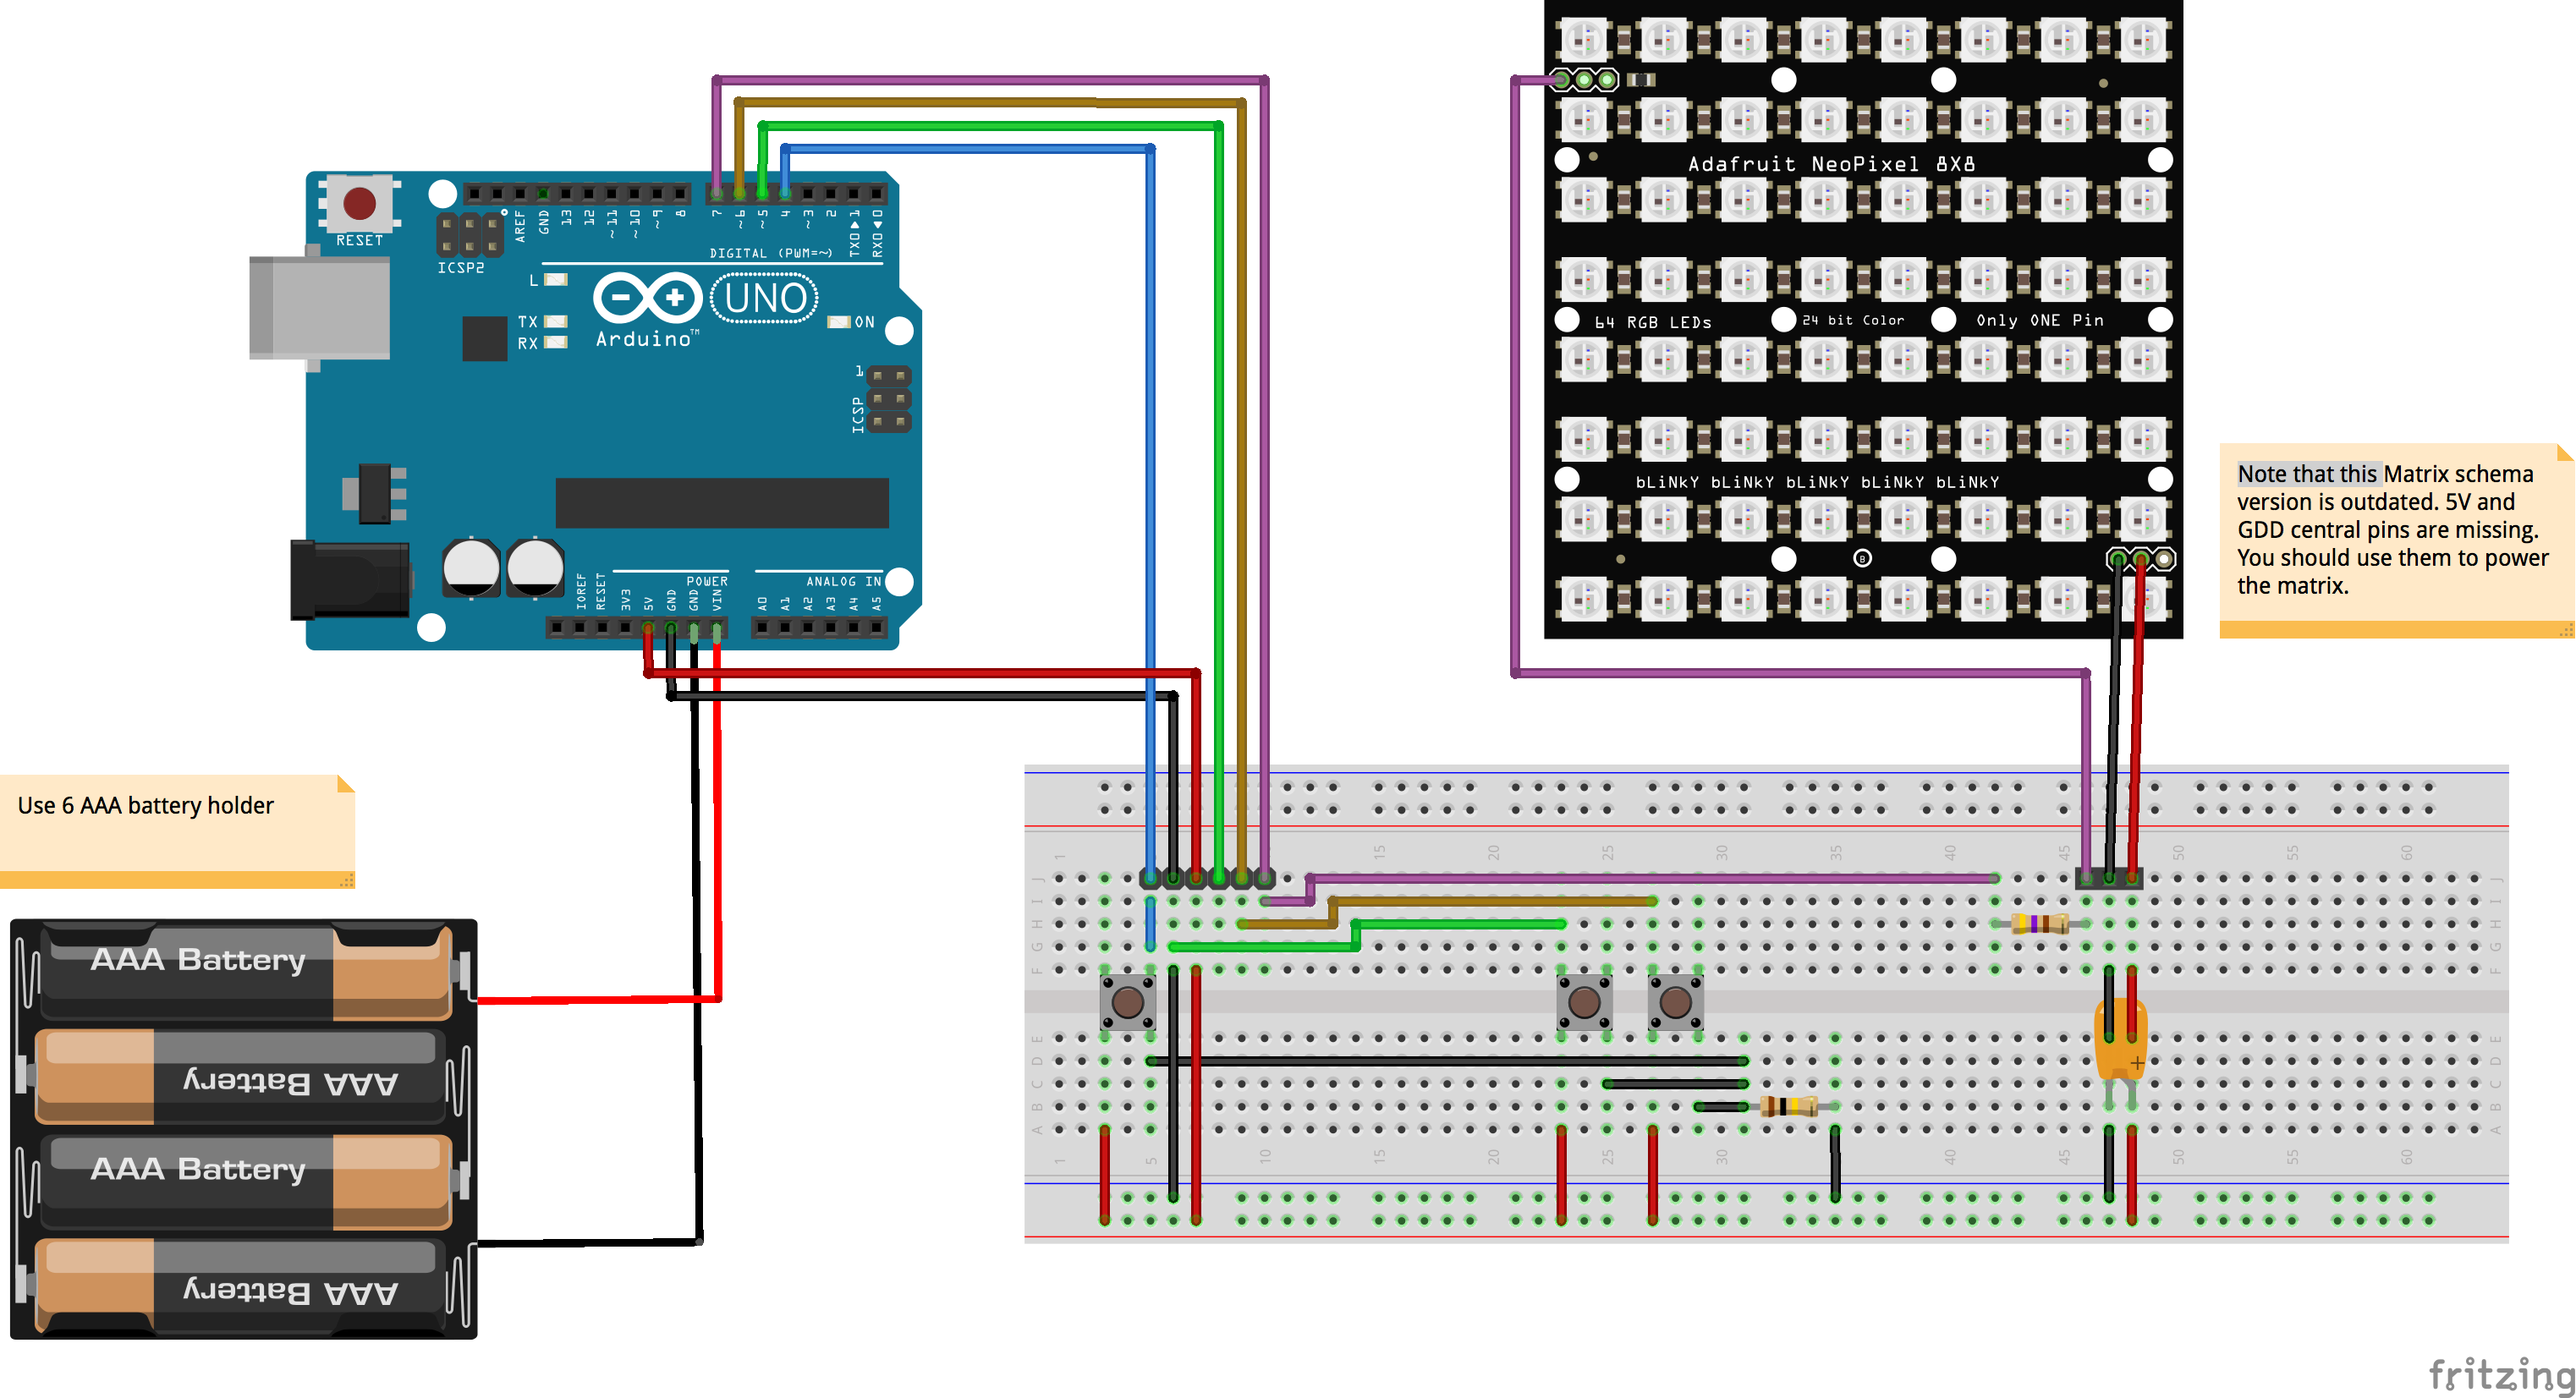
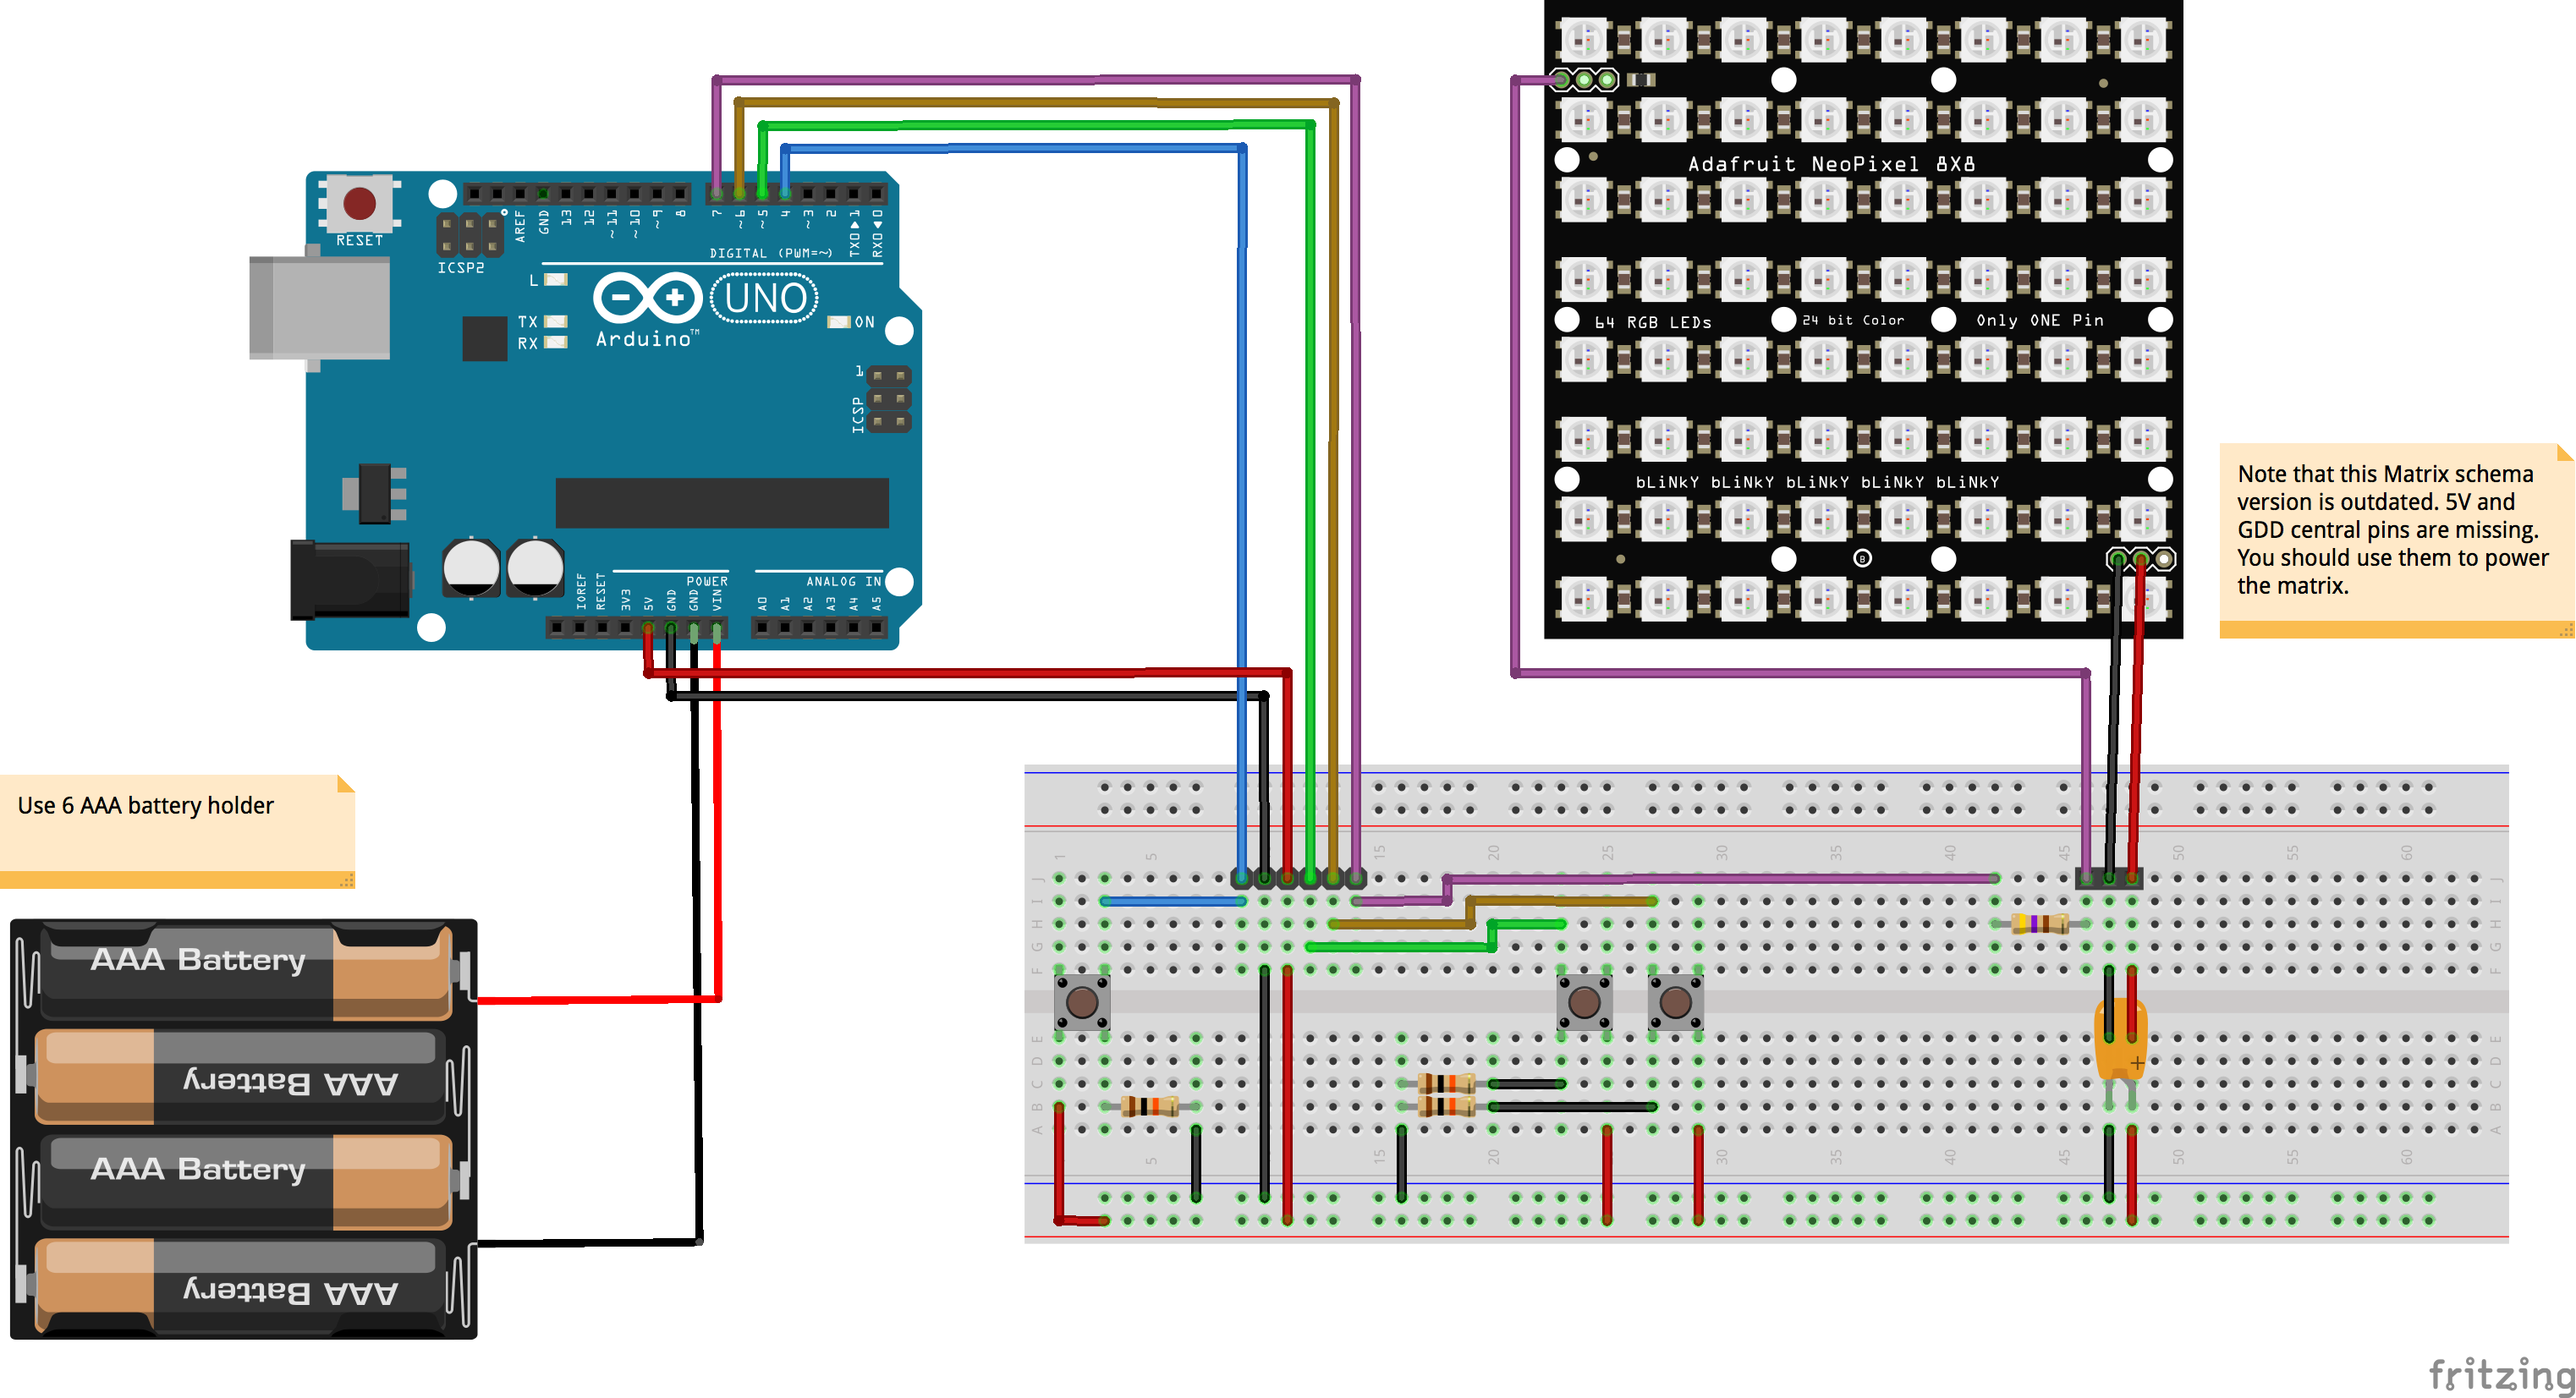
Improved protoboard. Added extra documentation

Changed region(s): [[0.4056, 0.0309, 0.7176, 0.8947], [0.8736, 0.3085, 0.936, 0.3702]]

diff --git a/README.md b/README.md
@@ -1,36 +1,33 @@
-# Bike Pixel
+# BikePixels
 
-NeoMatrix with Arduino for a back pack light to ride safty by night
+NeoMatrix with Arduino for a back pack light to ride safty by night.
 
 ## Components
 
 To build your own Bike Pixel you should have all the elements listed bellow:
 
-* Arduino UNO (or any other Ardiuno or compatible board)
-* 1 x NeoPixel 8x8 matrix
-* 3 x touch switches
-* 1 x 10 kΩ resistence
-* 1 x 470 Ω resistence
-* 1 x 1000 uf/6.3V capacitator
-* 1 x 6 AAA battery holder (but you can try any other power source)
-* 1 x on\off botton (optonal if your battery holder have one built-in)
-* Wires and soldering stuff
-
-Optional (to include battery voltage meter):
-
-    TODO
+* Arduino UNO (or any other Ardiuno or compatible board);
+* 1 x NeoPixel 8x8 matrix;
+* 3 x touch switches;
+* 3 x 10 kΩ resistence;
+* 1 x 470 Ω resistence;
+* 1 x 1000 uf/6.3V capacitator;
+* 1 x 6 AAA battery holder (but you can try any other power source);
+* 1 x on\off botton (optional if your battery holder have one built-in);
+* Wires and soldering stuff;
+* the case.
     
 If you have all the components you can assemble it following the next schema.
 
-![BikePixel schema](https://github.com/kstopa/bikepixel/blob/master/docs/electronics/sketch%20protoboard.png "BikePixel sketch")
+![BikePixel schema](./docs/electronics/sketch%20protoboard.png "BikePixel sketch")
 
 ## Software
 All required application to edit and design Bike Pixel are open sourced. Bellow you can find all the used tools:
 
-* Arduino IDE: to write, biuld and upload code to the Arduino board.
-* Fritzing: to design electronic schemas and the PCB.
-* Incskape: to design custom parts for Fritzing (e.g. the board).
-* FreeCAD: to design the case.
+* [Arduino IDE](https://www.arduino.cc/en/Main/Software): to write, biuld and upload code to the Arduino board.
+* [Fritzing](http://fritzing.org/download/): to design electronic schemas and the PCB.
+* [Inkscape](https://inkscape.org/en/release/): to design custom parts for Fritzing (e.g. the board).
+* [FreeCAD](https://www.freecadweb.org/wiki/Download): to design the case.
 
     
 ## Sketches
@@ -39,13 +36,13 @@ At the docs folder you can find the sketches and the draws with schemas and case
 ### Case
 The case is designed to be made joining three layers of plexy. The base is made of 1 mm plexy black board, then the middle should have 4 o 5 mm and the final should be 1 mm of transparent plexy. The design and draws can be found at docs/case folder. The final result should look similar to:
 
-![BikePixel case](https://github.com/kstopa/bikepixel/blob/master/docs/case/case.png "BikePixel Case")
+![BikePixel case](./docs/case/case.png "BikePixel Case")
 
 
 ### PCB
 The PCB encapsulates the buttons and manage connections from Arduino to the neopixel matrix. It desing is shown belllow:
 
-![BikePixel schema](https://github.com/kstopa/bikepixel/blob/master/docs/electronics/sketch%20pcb.png "BikePixel PCB")
+![BikePixel schema](./docs/electronics/sketch%20pcb.png "BikePixel PCB")
 
 Production files are available in SVG and Gerber 
 
